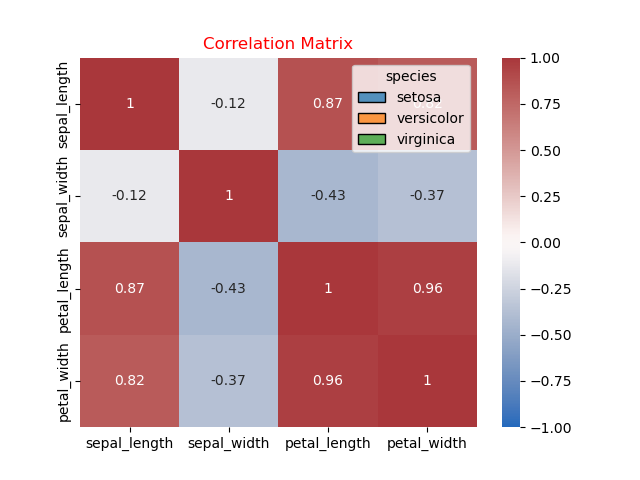
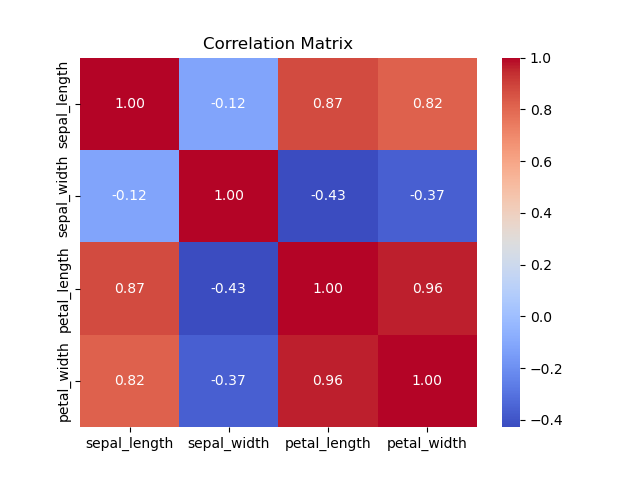
Cleanup summary txt and modified correlation png

diff --git a/analysis.py b/analysis.py
@@ -20,9 +20,11 @@ iris = pd.read_csv('https://raw.githubusercontent.com/mwaskom/seaborn-data/maste
 
 # Read in data
 print(iris) # displays the whole dataset
+
 print(iris.head()) # displays the 5 first rows from the dataframe
 print(iris.dtypes) # check for column data type
 print(iris.describe()) # diplays statistics about the data
+
 print(iris.info()) # displays the type of columns and datatype
 print(iris['species'].value_counts()) # displays number of species on each class
 print(iris.isnull().sum()) # check for missing values
@@ -99,7 +101,7 @@ plt.savefig("Sepal length vs Sepal width plot.png") # Save plot as png file.
 # Pairplot
 sns.pairplot(iris, hue = "species", diag_kind="hist")
 plt.savefig("Iris dataset pairplot plt.png") # Save plot as png file.
-
+'''
 
 #Correlation coefficient to assess the relationship between variables.
 
@@ -107,9 +109,7 @@ iris = iris.drop(["species"], axis = 1) #We must first drop the species column.
 iris.corr().round (2) # round up the values to two digits for easy reading
 
 # Let's plot the correlation matrix map.
-matrix = iris.corr().round (2)
-sns.heatmap(matrix, annot=True, vmax=1, vmin=-1, center=0,cmap='vlag' ) #annot+True add numbers onto the squares
-
+matrix = iris.corr()
+sns.heatmap(matrix, annot=True, cmap='coolwarm', fmt=".2f")
 plt.title("Correlation Matrix")
 plt.savefig("Correlation Matrix plt.png") # Save plot as png file.
-'''

diff --git a/README.md b/README.md
@@ -20,7 +20,7 @@ These four features are all measured in centimeters:
 
 ## How to get started.
 
-To further explore this dataset you need to download python, which can be installed through [anaconda](https://www.anaconda.com/download),and notebook editor, which can be found in [Visual Studio Code](https://code.visualstudio.com/)
+To  explore this dataset you need to download python, which can be installed through [anaconda](https://www.anaconda.com/download),and notebook editor, which can be found in [Visual Studio Code](https://code.visualstudio.com/)
 
 ## Analysis
 
@@ -31,6 +31,8 @@ import pandas as pd
 import matplotlib.pyplot as plt
 import numpy as np
 import seaborn as sns
+import warnings
+warnings.filterwarnings("ignore")
 ```
 
 - Pandas - for data manipulation and analysis. It allows us to investigate CSV files, amongst other features.
@@ -90,24 +92,15 @@ Pairplot is used for plotting pairwise relationships. It demonstrates the relati
 
 ## Correlation
 
-Correlation heat map demonstrates the correlations between the columns.
-It excludes the non numerical values and the missing values.
+Correlation analysis shows the linear relationship between numerical features. Thease relationships help with feature selection and predictive modelling.
 
 ![alt text](<Correlation Matrix plt.png>)
 
-Petal length and petal width (r= 0.96)
-- high positive correlation, meaning the longer the length the wider the width.
+**Sepal length** has a strong positive correlation with the **Petal length** and **Petal width**, suggesting that longer sepals are associated with wider and longer petals.
 
-Sepal length and sepal width: Weak negative correlation (r = -0,12)
-- Weak correlation 
+**Sepal width** shows a poor negative correlation with all other features, suggesting the wider or longer they are, the narrower the sepal width is.
 
-Petal length and sepal length = 0.87
- - have positive good correlations.
-
-Sepal length and Petal width = 0.82
- - have good positive correlations.
-
-Sepal width and petal width =
+**Petal length** and **Petal width** have a very strong correlation, indicating that longer petals are generally also wider.
 
 
 ## Conclusion
@@ -142,4 +135,6 @@ Sepal width and petal width =
 13. https://datagy.io/python-seaborn/
 
 14. https://seaborn.pydata.org/tutorial/distributions.html
+
+15. https://matplotlib.org/stable/users/explain/colors/colormaps.html
 
